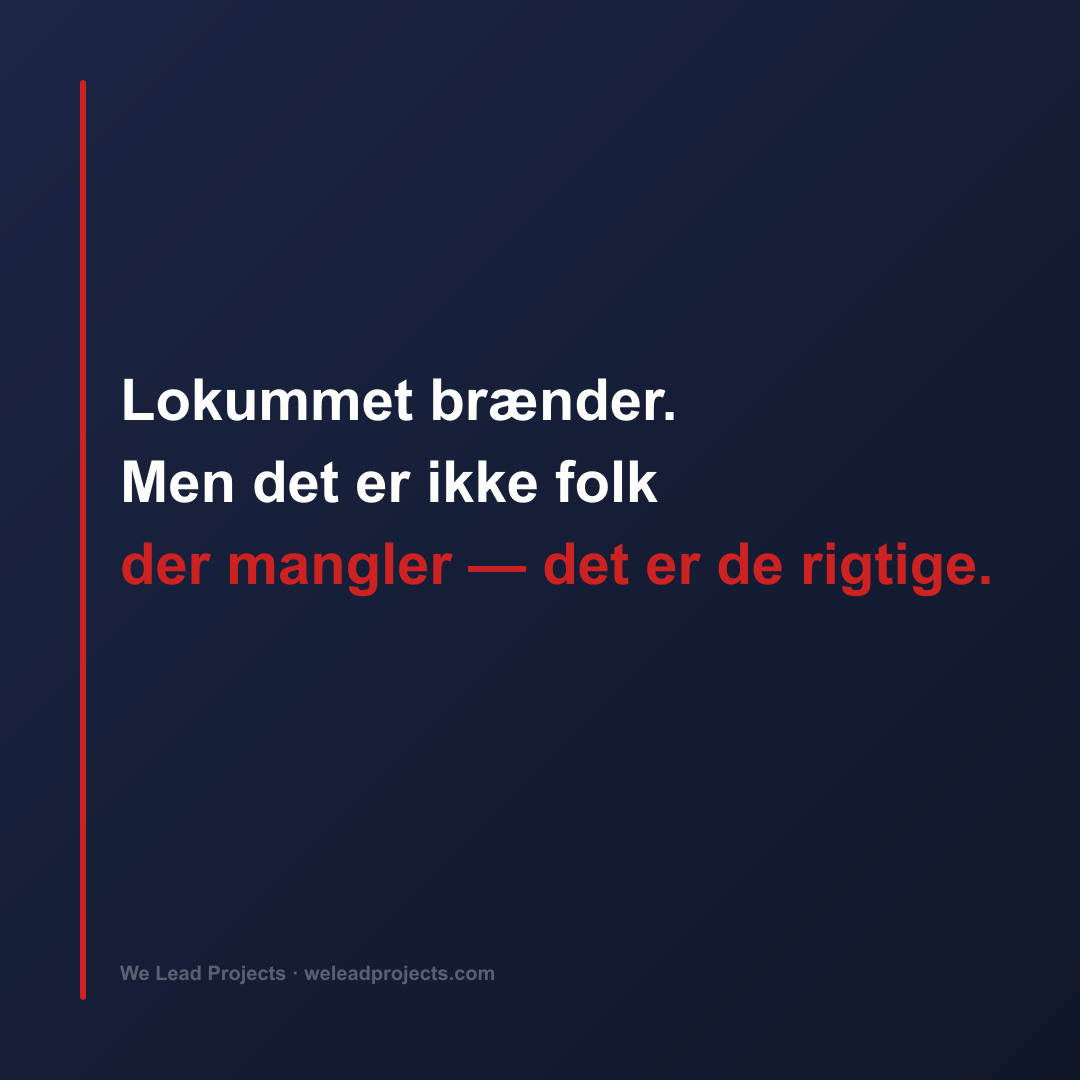
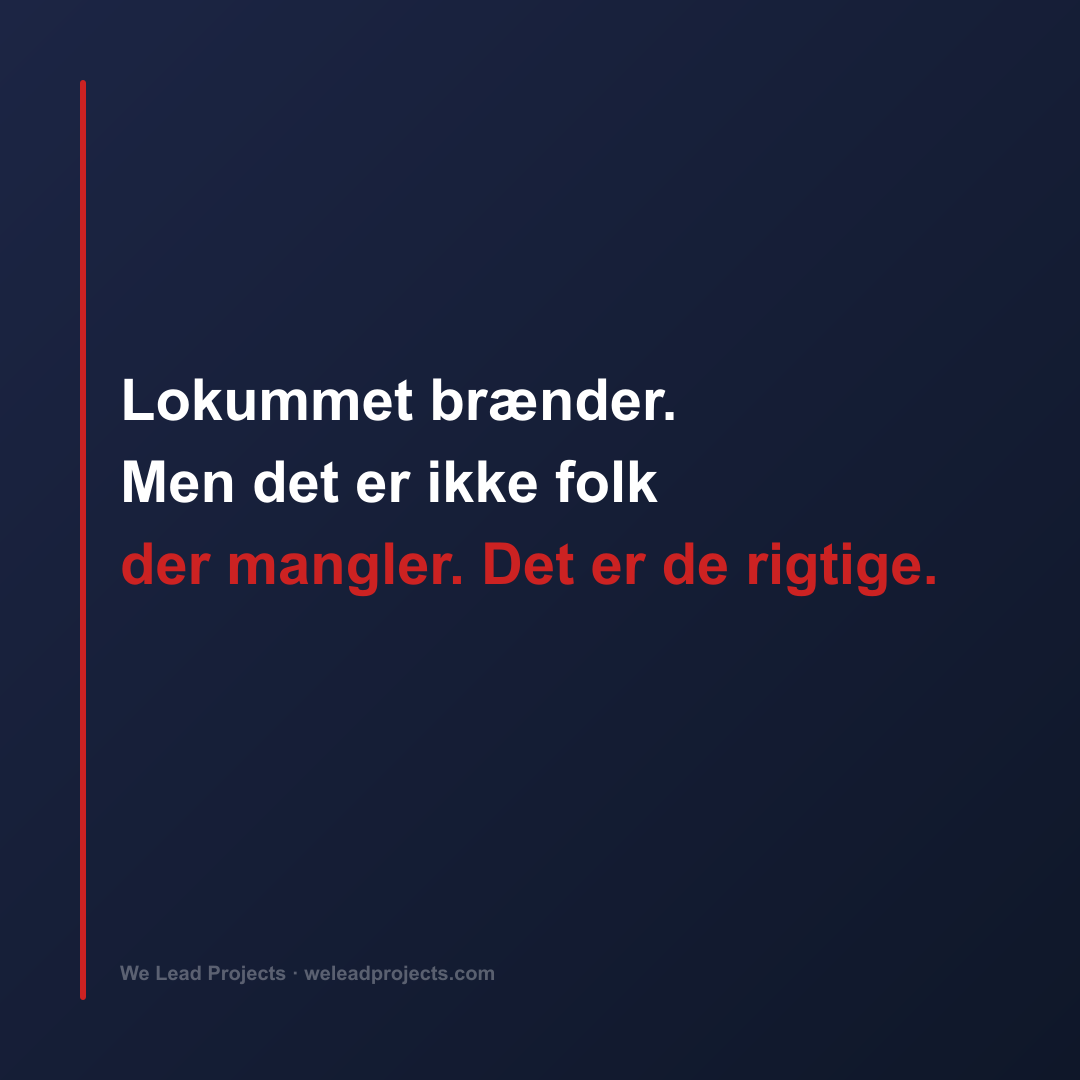
Fjern tankestreger fra LinkedIn-posts og billed-citater
Erstattet med punktum eller komma i alle 14 posts og de tre
billed-scriptets citat-linjer der brugte tankestreg.

Changed region(s): [[0.4278, 0.4889, 0.9167, 0.55]]

diff --git a/scripts/generate-all-linkedin-images.js b/scripts/generate-all-linkedin-images.js
@@ -7,11 +7,11 @@ const posts = JSON.parse(fs.readFileSync("content/linkedin-posts.json", "utf8"))
 // Key quote lines for each post (last line shown in red)
 const quotes = [
   ["ChatGPT er et værktøj.", "En AI-strategi", "er noget andet."],
-  ["Lokummet brænder.", "Men det er ikke folk", "der mangler — det er de rigtige."],
-  ["Hvad er den dyreste fejl", "du har set i et IT-projekt —", "ikke teknisk, men organisatorisk?"],
+  ["Lokummet brænder.", "Men det er ikke folk", "der mangler. Det er de rigtige."],
+  ["Hvad er den dyreste fejl", "du har set i et IT-projekt,", "ikke teknisk, men organisatorisk?"],
   ["EA er et af de mest", "undervurderede", "ledelsesvirkemidler."],
   ["“Vi kører Agile.”", "Det gør I ikke.", "I har Agile-æstetik."],
-  ["Hvad tror jeres direktion", "AI gør for jer —", "og hvad sker der faktisk?"],
+  ["Hvad tror jeres direktion", "AI gør for jer,", "og hvad sker der faktisk?"],
   ["Den person der sænker projektet", "sidder sjældent", "i projektgruppen."],
   ["“Best practice”", "bruges som erstatning", "for analyse."],
   ["Hvem ejer ansvaret", "for AI-governance", "i jeres virksomhed?"],
